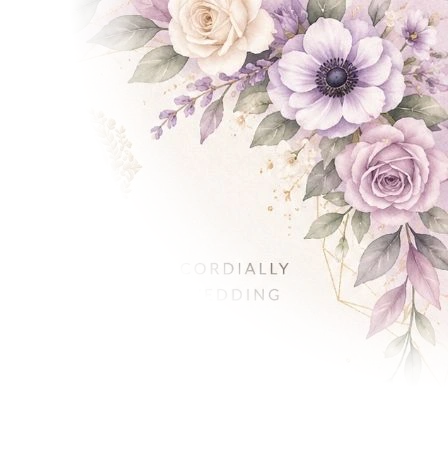
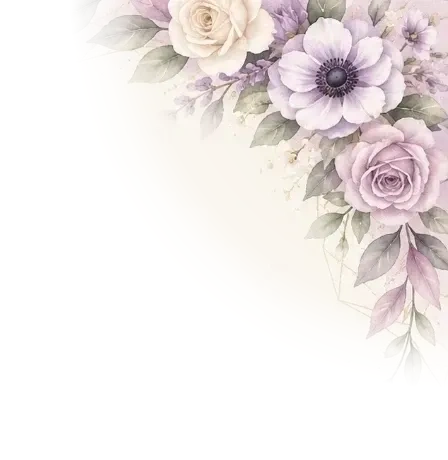
Fix floral background defects, update ribbon opening button to TAP TO OPEN with immediate music autoplay, add You're Invited header, and enrich countdown section framing

diff --git a/src/styles/invitation.css b/src/styles/invitation.css
@@ -2500,6 +2500,32 @@ body.theme-lavender #invitation-cover .cover-intro-lead {
   font-weight: 500;
 }
 
+/* Elegant "You're Invited" Header */
+body.theme-lavender #invitation-cover .invitation-you-are-invited {
+  display: flex;
+  align-items: center;
+  justify-content: center;
+  gap: 12px;
+  margin: 0 auto clamp(6px, 1.2vh, 14px);
+}
+
+body.theme-lavender #invitation-cover .invitation-you-are-invited .invited-text {
+  font-family: var(--font-serif-primary, 'Cinzel', serif);
+  font-size: clamp(0.92rem, 1.8vw, 1.25rem);
+  font-weight: 600;
+  letter-spacing: 0.24em;
+  text-transform: uppercase;
+  color: #55346E; /* Deep mauve / plum */
+  text-shadow: 0 1px 2px rgba(197, 165, 109, 0.35);
+}
+
+body.theme-lavender #invitation-cover .invitation-you-are-invited .invited-flourish {
+  color: #C5A56D; /* Champagne gold */
+  font-size: 0.85rem;
+  line-height: 1;
+  opacity: 0.85;
+}
+
 /* Couple Names Display */
 body.theme-lavender #invitation-cover .cover-couple-names {
   display: flex;
@@ -2934,10 +2960,14 @@ body.theme-lavender #save-the-date-btn:hover {
 
 /* SECTION 3: COUNTDOWN */
 body.theme-lavender #countdown-section {
-  background-color: #EFE6FA;
-  background-image: radial-gradient(circle at 50% 50%, #F8F3FE 0%, #EEE5F8 60%, #D8C4EC 100%);
+  background-color: #EEE5F8;
+  background-image: 
+    radial-gradient(circle at 50% 50%, #FAF6FE 0%, #EFE5F9 55%, #DEC8F0 100%);
   padding: clamp(52px, 9vh, 92px) 16px;
-  border-top: 1px solid rgba(197, 165, 109, 0.3);
+  border: none !important;
+  position: relative;
+  overflow: hidden;
+  isolation: isolate;
 }
 
 body.theme-lavender #countdown-section .countdown-container {
@@ -3899,21 +3929,32 @@ body.theme-lavender .lavender-corner-item {
 .decor-comp-countdown .lavender-corner-bl {
   bottom: 0;
   left: 0;
-  width: clamp(110px, 28vw, 170px);
-  aspect-ratio: 318 / 384;
-  background-image: url('/jony-wedding/assets/decorations/lavender-wash-bottom-right.webp');
+  width: clamp(120px, 30vw, 190px);
+  aspect-ratio: 440 / 454;
+  background-image: url('/jony-wedding/assets/decorations/lavender-corner-bottom-left.webp');
   background-position: bottom left;
-  transform: scaleX(-1);
-  opacity: 0.9;
+  opacity: 0.95;
 }
 
 .decor-comp-countdown .lavender-corner-br {
   bottom: 0;
   right: 0;
-  width: clamp(110px, 28vw, 170px);
-  aspect-ratio: 318 / 384;
-  background-image: url('/jony-wedding/assets/decorations/lavender-wash-bottom-right.webp');
+  width: clamp(120px, 30vw, 190px);
+  aspect-ratio: 440 / 454;
+  background-image: url('/jony-wedding/assets/decorations/lavender-corner-bottom-left.webp');
   background-position: bottom right;
+  transform: scaleX(-1);
+  opacity: 0.95;
+}
+
+.decor-comp-countdown .countdown-ambient-glow {
+  position: absolute;
+  inset: 0;
+  pointer-events: none;
+  background: 
+    radial-gradient(circle at 50% 50%, rgba(255, 255, 255, 0.45) 0%, transparent 60%),
+    radial-gradient(circle at 30% 25%, rgba(197, 165, 109, 0.08) 0%, transparent 40%),
+    radial-gradient(circle at 70% 75%, rgba(197, 165, 109, 0.08) 0%, transparent 40%);
   opacity: 0.9;
 }
 
@@ -4391,12 +4432,14 @@ body.theme-lavender .gallery-card img {
     position: relative !important;
     overflow: hidden !important;
     background-color: #FAF7FE !important;
-    background-image: none !important;
     border: none !important;
     box-shadow: none !important;
+    display: flex !important;
+    align-items: center !important;
+    justify-content: center !important;
   }
 
-  /* Display the exact supplied reference image full-bleed */
+  /* Display the exact supplied reference floral artwork full-bleed */
   body.theme-lavender #invitation-cover .mobile-supplied-cover-wrap {
     display: block !important;
     position: absolute !important;
@@ -4414,59 +4457,112 @@ body.theme-lavender .gallery-card img {
     display: block !important;
   }
 
-  /* Overlay container for accessibility & interactive scroll prompt */
+  /* Overlay container for typography & interactive scroll prompt */
   body.theme-lavender #invitation-cover .invitation-full-container {
-    position: absolute !important;
-    inset: 0 !important;
-    width: 100% !important;
-    max-width: 100% !important;
-    height: 100% !important;
+    position: relative !important;
     z-index: 10 !important;
+    width: 100% !important;
+    max-width: 360px !important;
+    height: 100% !important;
+    max-height: 100dvh !important;
     background: transparent !important;
     border: none !important;
     border-radius: 0 !important;
     box-shadow: none !important;
     aspect-ratio: auto !important;
-    margin: 0 !important;
-    padding: 0 !important;
+    margin: 0 auto !important;
+    padding: clamp(28px, 5vh, 48px) clamp(16px, 4vw, 24px) clamp(20px, 3vh, 32px) !important;
     display: flex !important;
     flex-direction: column !important;
     align-items: center !important;
-    justify-content: flex-end !important;
-    pointer-events: none !important;
-  }
-
-  /* Text is already baked into the exact supplied image */
-  body.theme-lavender #invitation-cover .invitation-crest-emblem,
-  body.theme-lavender #invitation-cover .cover-intro-lead,
-  body.theme-lavender #invitation-cover .cover-couple-names,
-  body.theme-lavender #invitation-cover .hero-divider,
-  body.theme-lavender #invitation-cover .invitation-sub-lead {
-    display: none !important;
-  }
-
-  /* Interactive Scroll Button Hotspot over the printed 'SCROLL TO EXPLORE' */
-  body.theme-lavender #invitation-cover .invitation-scroll-prompt {
+    justify-content: space-between !important;
+    text-align: center !important;
+    box-sizing: border-box !important;
     pointer-events: auto !important;
-    position: absolute !important;
-    bottom: 3.5% !important;
-    left: 50% !important;
-    transform: translateX(-50%) !important;
-    width: 220px !important;
-    height: 68px !important;
+  }
+
+  body.theme-lavender #invitation-cover .invitation-crest-emblem {
+    display: flex !important;
+    width: clamp(72px, 16vw, 92px) !important;
+    height: clamp(72px, 16vw, 92px) !important;
+    margin: 0 auto clamp(4px, 1vh, 8px) !important;
+  }
+
+  body.theme-lavender #invitation-cover .cover-intro-lead {
+    display: block !important;
+    font-size: clamp(0.64rem, 2.4vw, 0.74rem) !important;
+    line-height: 1.4 !important;
+    letter-spacing: 0.16em !important;
+    margin: 0 auto clamp(4px, 0.8vh, 8px) !important;
+    color: #3C2B42 !important;
+    max-width: 290px !important;
+  }
+
+  body.theme-lavender #invitation-cover .invitation-you-are-invited {
     display: flex !important;
     align-items: center !important;
     justify-content: center !important;
+    gap: 8px !important;
+    margin: 0 auto clamp(4px, 0.8vh, 8px) !important;
+  }
+
+  body.theme-lavender #invitation-cover .invitation-you-are-invited .invited-text {
+    font-size: clamp(0.85rem, 3.2vw, 1.05rem) !important;
+    letter-spacing: 0.22em !important;
+    color: #55346E !important;
+  }
+
+  body.theme-lavender #invitation-cover .cover-couple-names {
+    display: flex !important;
+    margin: 0 auto clamp(2px, 0.6vh, 6px) !important;
+  }
+
+  body.theme-lavender #invitation-cover .cover-groom-name,
+  body.theme-lavender #invitation-cover .cover-bride-name {
+    font-size: clamp(2.1rem, 7.8vw, 2.7rem) !important;
+    line-height: 1.05 !important;
+    color: #2F2133 !important;
+  }
+
+  body.theme-lavender #invitation-cover .cover-ampersand {
+    font-size: clamp(1.3rem, 4.8vw, 1.6rem) !important;
+    margin: 2px 0 !important;
+    color: #C5A56D !important;
+  }
+
+  body.theme-lavender #invitation-cover .hero-divider {
+    display: flex !important;
+    width: 140px !important;
+    margin: clamp(4px, 0.8vh, 8px) auto !important;
+  }
+
+  body.theme-lavender #invitation-cover .invitation-sub-lead {
+    display: block !important;
+    font-size: clamp(0.70rem, 2.6vw, 0.80rem) !important;
+    line-height: 1.4 !important;
+    max-width: 280px !important;
+    margin: 0 auto clamp(8px, 1.5vh, 14px) !important;
+    color: #4A3E4E !important;
+  }
+
+  body.theme-lavender #invitation-cover .invitation-scroll-prompt {
+    pointer-events: auto !important;
+    display: flex !important;
+    flex-direction: column !important;
+    align-items: center !important;
+    gap: 4px !important;
+    margin: 0 auto !important;
+    padding: 6px 16px !important;
+    background: transparent !important;
     text-decoration: none !important;
     cursor: pointer !important;
-    background: transparent !important;
-    z-index: 20 !important;
   }
 
   body.theme-lavender #invitation-cover .invitation-scroll-sparkle,
   body.theme-lavender #invitation-cover .invitation-scroll-label,
   body.theme-lavender #invitation-cover .invitation-scroll-line {
-    opacity: 0 !important; /* invisible hotspot over the printed button */
+    opacity: 1 !important;
+    visibility: visible !important;
   }
 }
 

diff --git a/src/scripts/music.ts b/src/scripts/music.ts
@@ -15,6 +15,7 @@ export function initMusic(audioSrc: string) {
   audio.preload = "auto";
   audio.volume = TARGET_VOLUME;
   globalAudio = audio;
+  (window as any).__weddingAudio = audio;
 
   const toggleBtn = document.getElementById("music-toggle-btn");
   const iconPlaying = document.getElementById("music-icon-playing");
@@ -115,6 +116,7 @@ export function initMusic(audioSrc: string) {
     pause: pauseAudio,
     toggle: toggleAudio
   };
+  (window as any).__weddingMusicController = globalController;
 
   return globalController;
 }
